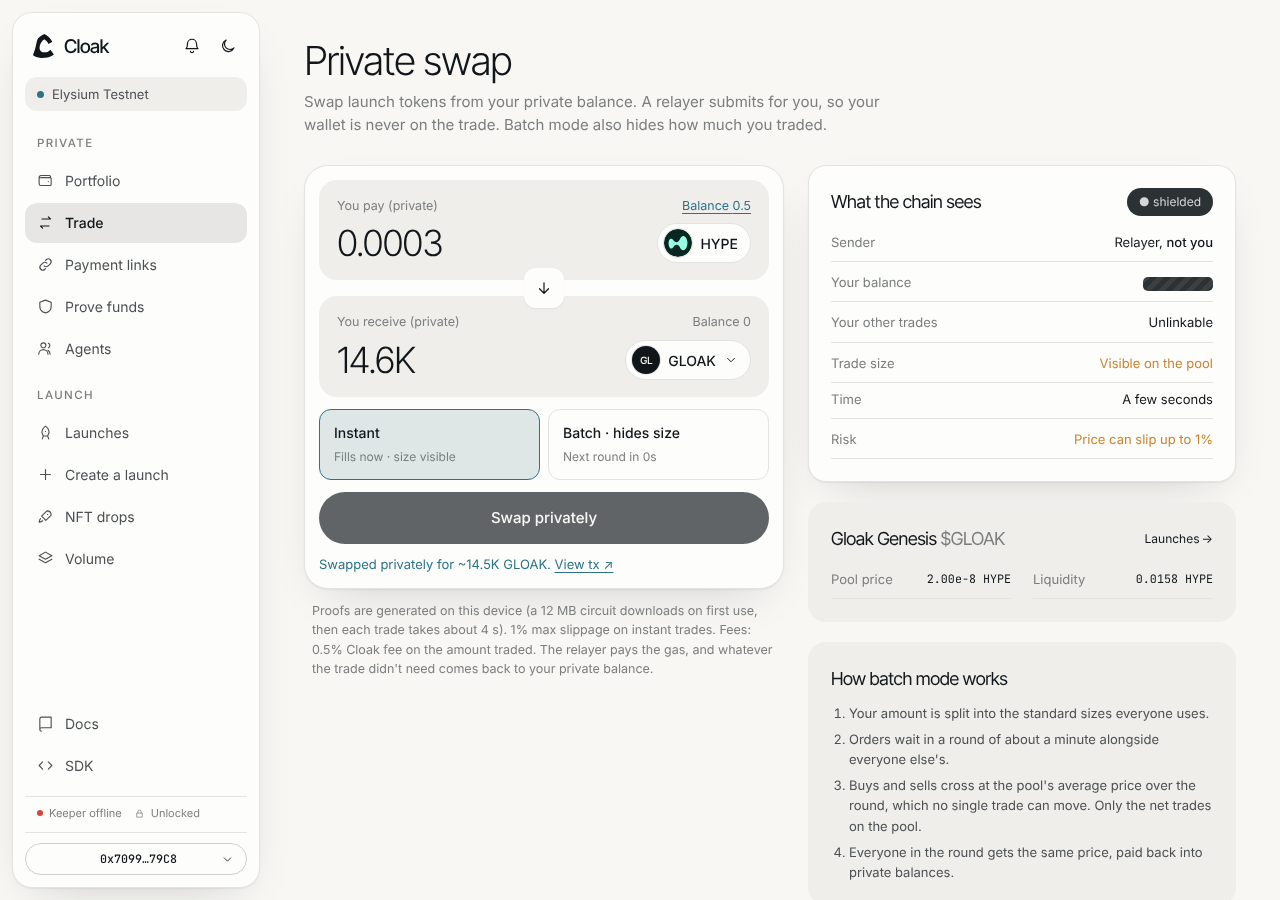
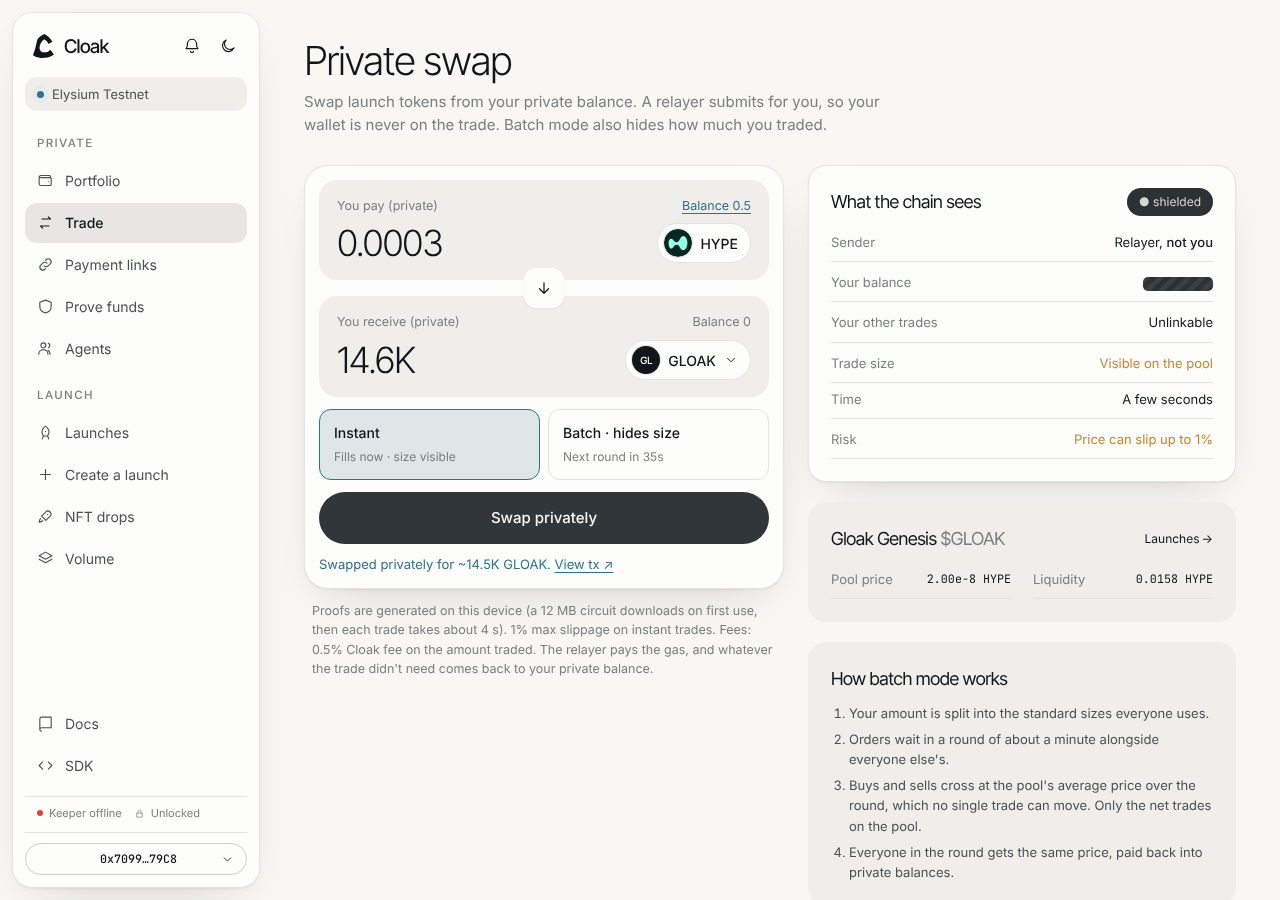
Keeper and SDK: reads to the head survive a lagging RPC node; /leaves ETag stays put; live awake.why
From Cloak v1's keeper notes, checked and measured against v2:
- head.ts: read logs to the head, and only when a node of the load-balanced RPC refuses the range, again 3 blocks back
  (4 of 300 failed to the head, 0 of 300 three back, on Nov 10). A fallback, not a fixed lag, which would hide the
  newest blocks on chains that make blocks only with transactions. Used by the batch-round reader, the leaf tree, the
  memo reader and the one-shot reads, which now walk in pieces only when the RPC caps the range. 4 unit tests.
- /leaves: the ETag names the leaves (address, count, last leaf), not the moving block, so repeat requests get a 304.
- /health: awake.why is computed live.
- docs/OPTIMIZATION.md R1 to R4, with the measurements (1.3 MB an hour idle, 370 KB per start).

Changed region(s): [[0.25, 0.5289, 0.625, 0.6222]]

diff --git a/packages/sdk/src/head.ts b/packages/sdk/src/head.ts
@@ -1,0 +1,59 @@
+/**
+ * Reading logs up to the head on a load-balanced RPC. Elysium's public RPC is several nodes behind one address, a block
+ * or two apart, so eth_getLogs up to the head one node just reported can land on a node that hasn't reached it and is
+ * refused ("invalid block range params", which viem shows as "Missing or invalid parameters"): 4 of 300 tries on
+ * Nov 10. Three blocks back failed 0 times in 300.
+ *
+ * So a read goes up to the head first, and only when a node refuses the range, once more up to HEAD_LAG blocks back.
+ * Not a fixed lag: on a chain that makes blocks only with transactions (a local node, a quiet L2) a fixed lag would hide
+ * the newest blocks until more arrive. Elysium makes 5 to 7 blocks a second, so the fallback costs about half a second.
+ */
+export const HEAD_LAG = 3n;
+
+const BEHIND = /invalid block range|block range|missing or invalid parameters|header not found|unknown block|after last accepted block|beyond current head/i;
+
+/** A node behind the head refused a block range. */
+export function isBehindHead(e: unknown): boolean {
+  const x = e as { shortMessage?: string; message?: string; details?: string } | undefined;
+  return BEHIND.test(`${x?.shortMessage ?? ""} ${x?.details ?? ""} ${x?.message ?? ""}`);
+}
+
+/**
+ * Runs `read` up to the head; if a lagging node refuses the range, runs it again up to HEAD_LAG blocks back. Returns
+ * the block it read up to (a cursor's next block is that plus one) and what `read` returned.
+ */
+export async function readToHead<T>(client: { getBlockNumber(a?: { cacheTime?: number }): Promise<bigint> }, read: (to: bigint) => Promise<T>): Promise<{ to: bigint; value: T }> {
+  const head = await client.getBlockNumber({ cacheTime: 0 });
+  try {
+    return { to: head, value: await read(head) };
+  } catch (e) {
+    if (!isBehindHead(e) || head < HEAD_LAG) throw e;
+    const to = head - HEAD_LAG;
+    return { to, value: await read(to) };
+  }
+}
+
+/**
+ * Logs from `from` to the head: in one call (readToHead), else in `step`-block pieces up to HEAD_LAG blocks back, for
+ * RPCs that cap ranges. `quiet` skips a piece that fails; `firstOnly` stops at the first piece with any log.
+ */
+export async function logsToHead<T>(
+  client: { getBlockNumber(a?: { cacheTime?: number }): Promise<bigint> },
+  from: bigint,
+  get: (from: bigint, to: bigint) => Promise<T[]>,
+  o: { step: bigint; quiet?: boolean; firstOnly?: boolean },
+): Promise<T[]> {
+  try {
+    return (await readToHead(client, (to) => get(from, to))).value;
+  } catch {
+    const head = await client.getBlockNumber({ cacheTime: 0 });
+    const last = head > HEAD_LAG ? head - HEAD_LAG : head;
+    const out: T[] = [];
+    for (let a = from; a <= last; a += o.step) {
+      const b = a + o.step - 1n < last ? a + o.step - 1n : last;
+      out.push(...(o.quiet ? await get(a, b).catch(() => [] as T[]) : await get(a, b)));
+      if (o.firstOnly && out.length) break;
+    }
+    return out;
+  }
+}

diff --git a/packages/sdk/src/drops.ts b/packages/sdk/src/drops.ts
@@ -10,6 +10,7 @@
  * The GTD and WL lists live on chain only as Merkle roots. The lists themselves are published once, in the factory's
  * DropDetails event, so anyone can rebuild a proof; a list that doesn't match the root proves nothing.
  */
+import { logsToHead } from "./head.js";
 import { encodeAbiParameters, getAddress, isAddress, keccak256, toHex, type Address, type Hex, type PublicClient } from "viem";
 import { cloakDropAbi, cloakDropFactoryAbi, cloakEscrowDropAbi, cloakEscrowDropFactoryAbi } from "./abis.js";
 import { commitmentOf, type Wallet } from "./cloak.js";
@@ -516,14 +517,7 @@ export class CloakDrops {
     const from = opts.fromBlock ?? (await this.deployBlock(collection, latest));
     const seen = new Set<bigint>();
     const get = (a: bigint, b: bigint) => this.publicClient.getLogs({ address: collection, event: ev, args: { to: owner }, fromBlock: a, toBlock: b });
-    try {
-      for (const l of await get(from, latest)) if (l.args.tokenId !== undefined) seen.add(l.args.tokenId);
-    } catch {
-      for (let a = from; a <= latest; a += 100_000n) {
-        const b = a + 99_999n > latest ? latest : a + 99_999n;
-        for (const l of await get(a, b).catch(() => [])) if (l.args.tokenId !== undefined) seen.add(l.args.tokenId);
-      }
-    }
+    for (const l of await logsToHead(this.publicClient, from, get, { step: 100_000n, quiet: true })) if (l.args.tokenId !== undefined) seen.add(l.args.tokenId);
     const ids = [...seen].sort((a, b) => (a < b ? -1 : 1));
     const owners = await this.reads(ids.map((id) => ({ ...c, functionName: "ownerOf", args: [id] }))).catch(() => ids.map(() => null));
     return ids.filter((_, i) => String(owners[i]).toLowerCase() === owner.toLowerCase()).slice(0, max);
@@ -614,17 +608,7 @@ export class CloakDrops {
 
   /** Read logs from `fromBlock` to now in one call, or in 100k-block pieces where the RPC limits ranges. */
   private async chunked<T>(get: (from: bigint, to: bigint) => Promise<T[]>, firstOnly = false): Promise<T[]> {
-    const latest = await this.publicClient.getBlockNumber({ cacheTime: 0 });
-    try {
-      return await get(this.fromBlock, latest);
-    } catch {
-      const out: T[] = [];
-      for (let from = this.fromBlock; from <= latest; from += 100_000n) {
-        out.push(...(await get(from, from + 99_999n > latest ? latest : from + 99_999n)));
-        if (firstOnly && out.length) break;
-      }
-      return out;
-    }
+    return logsToHead(this.publicClient, this.fromBlock, get, { step: 100_000n, firstOnly });
   }
 
   async committedLogs(drop: Address) {

diff --git a/packages/sdk/src/cloak.ts b/packages/sdk/src/cloak.ts
@@ -12,6 +12,7 @@ import {
   parseEventLogs,
   toHex,
 } from "viem";
+import { logsToHead } from "./head.js";
 import { cloakAuctionAbi, cloakFactoryAbi, cloakFeeLockerAbi, cloakPairAbi, cloakTokenAbi, cloakV4HookAbi } from "./abis.js";
 
 /** `lpLockUntil` for "locked forever, the creator earns the pool's trading fees". */
@@ -510,16 +511,9 @@ export class Cloak {
     const launches = await this.listLaunches();
     if (!launches.length) return [];
     const me = owner.toLowerCase();
-    const latest = await this.publicClient.getBlockNumber({ cacheTime: 0 });
     const get = (from: bigint, to: bigint) =>
       this.publicClient.getContractEvents({ address: launches.map((l) => l.auction), abi: cloakAuctionAbi, eventName: "Committed", args: { bidder: owner }, strict: true, fromBlock: from, toBlock: to });
-    let logs: Awaited<ReturnType<typeof get>>;
-    try {
-      logs = await get(fromBlock, latest);
-    } catch {
-      logs = [];
-      for (let from = fromBlock; from <= latest; from += 10_000n) logs.push(...(await get(from, from + 9_999n > latest ? latest : from + 9_999n)));
-    }
+    const logs = await logsToHead(this.publicClient, fromBlock, get, { step: 10_000n });
     const bidIds = new Map<string, bigint[]>();
     for (const l of logs) {
       const k = l.address.toLowerCase();
@@ -607,7 +601,6 @@ export class Cloak {
   // ───────────── keeper side ─────────────
 
   async committedLogs(auction: Address, fromBlock = 0n) {
-    const latest = await this.publicClient.getBlockNumber({ cacheTime: 0 });
     const get = (from: bigint, to: bigint) =>
       this.publicClient.getContractEvents({
         address: auction,
@@ -617,18 +610,8 @@ export class Cloak {
         fromBlock: from,
         toBlock: to,
       });
-    try {
-      return await get(fromBlock, latest);
-    } catch {
-      // RPCs that cap eth_getLogs ranges: walk in chunks
-      const out: Awaited<ReturnType<typeof get>> = [];
-      const step = 10_000n;
-      for (let from = fromBlock; from <= latest; from += step) {
-        const to = from + step - 1n > latest ? latest : from + step - 1n;
-        out.push(...(await get(from, to)));
-      }
-      return out;
-    }
+    // one call to the head, else pieces where the RPC caps ranges (head.ts)
+    return logsToHead(this.publicClient, fromBlock, get, { step: 10_000n });
   }
 
   /**

diff --git a/packages/sdk/src/core/gloam.ts b/packages/sdk/src/core/gloam.ts
@@ -17,6 +17,7 @@
  * Every transaction goes through the injected submitter: a relayer by default, so the user's address never appears
  * next to a private action.
  */
+import { readToHead } from "../head.js";
 import { p256 } from "@noble/curves/p256";
 import { hkdf } from "@noble/hashes/hkdf";
 import { sha256 } from "@noble/hashes/sha256";
@@ -361,9 +362,8 @@ export class GloamCore implements PrivateCore {
     onStatus("Reading the vault");
     // eslint-disable-next-line @typescript-eslint/no-explicit-any
     await this.tree.update(pub as any);
-    const head = await pub.getBlockNumber();
     onStatus("Reading sealed notes");
-    const logs = await this.memoLogs(this.memoFrom, head);
+    const { to: head, value: logs } = await readToHead(pub, (to) => this.memoLogs(this.memoFrom, to));
     for (const log of logs) {
       const key = `${log.transactionHash}:${log.logIndex}`;
       if (this.seenMemo.has(key)) continue;
@@ -371,7 +371,7 @@ export class GloamCore implements PrivateCore {
       const text = new TextDecoder().decode(hexToBytes(log.args.memo as Hex));
       for (const t of text.split("\n")) await this.tryTicket(t);
     }
-    this.memoFrom = head + 1n;
+    if (head + 1n > this.memoFrom) this.memoFrom = head + 1n; // only forward (a lagging head never re-reads or skips)
     // Keep what is in the tree and unspent.
     const stillWaiting: typeof this.candidates = [];
     for (const c of this.candidates) {

diff --git a/packages/sdk/src/core/gloamTree.ts b/packages/sdk/src/core/gloamTree.ts
@@ -12,6 +12,7 @@
  * The state can be exported (commitments only, all public) and imported, so a reload reads only new blocks, and
  * seeded from the keeper's public list (`GET /leaves`), checked against a root the vault knows.
  */
+import { readToHead } from "../head.js";
 import * as gloam from "@gloamtrade/sdk";
 import type { Address, Hex, PublicClient } from "viem";
 
@@ -113,7 +114,12 @@ export class GloamTree implements GloamTreeView {
   }
 
   private async read(client: PublicClient) {
-    const latest = await client.getBlockNumber({ cacheTime: 0 }); // a cached head can miss a note made seconds before it's spent
+    // up to a fresh head (a cached one can miss a note made seconds before it's spent), a few blocks back if a lagging
+    // node of the RPC refuses the range (head.ts)
+    await readToHead(client, (latest) => this.readTo(client, latest));
+  }
+
+  private async readTo(client: PublicClient, latest: bigint) {
     // no new block: nothing to read, but the leaf count is still checked (a seeded list missing a leaf shows here)
     const ins: Insert[] = [];
     for (let a = this.next; a <= latest; a += this.chunk) {

diff --git a/packages/sdk/src/index.ts b/packages/sdk/src/index.ts
@@ -9,3 +9,4 @@ export * from "./core/index.js";
 export * from "./spots.js";
 export * from "./names.js";
 export * from "./bridge/relay.js";
+export * from "./head.js";

diff --git a/docs/OPTIMIZATION.md b/docs/OPTIMIZATION.md
@@ -66,6 +66,34 @@ v1 measured that Render's bandwidth is mostly **the keeper's own RPC reads**, no
 ### Hosting files
 - `render.yaml` is now the v2 keeper's Blueprint (free plan, testnet addresses, `TRUSTED_PROXY_HOPS=1`, CORS for gloak.boblabs.tech, the build filter). The site goes on Vercel, whose `vercel.json` already skips builds that don't touch the site (v1's V2).
 
+### R1. Reads up to the head on a load-balanced RPC (Nov 10, from Cloak v1's keeper notes)
+- **The bug:** Elysium's public RPC is several nodes behind one address, a block or two apart. `eth_getLogs` up to the head one node just reported can land on a node that hasn't reached it and is refused ("invalid block range params", shown by viem as "Missing or invalid parameters").
+- **Measured on the testnet RPC, Nov 10, 300 tries each:** logs up to the reported head failed 4 times (1.3%); up to 3 blocks back, 0 times. Reading the vault's state at the head block failed 0 times, and the head never went backwards in this sample (v1 saw it twice in 300).
+- **Fixed with a fallback, not a fixed lag** (`packages/sdk/src/head.ts`): read to the head; only if a node refuses the range, read again to 3 blocks back. v1's note proposed always reading to head minus 3. That breaks on chains that make blocks only with transactions: the newest 3 blocks stay hidden until more transactions arrive. It broke parts 16, 18 and 19 on the local fork, where a fresh deposit stayed invisible. Elysium itself makes a block every 0.15 to 0.2 s, each with at least 2 system transactions (checked on testnet and mainnet), so there the fallback costs about half a second, and only when it's needed.
+- **Where:** the keeper's batch-round reader (`settleRounds`, whose cursor now moves only past what was read), the leaf tree (keeper `/leaves` and every app's sync), the payment-memo reader (its cursor only moves forward), and the one-shot reads (reveals, claims, the bell, drops, NFTs). Those used to fall into a piece-by-piece walk on any error, about 270 calls for the bell's read from block 0. Now they walk in pieces only when the RPC really caps the range.
+- **Tests:** 4 unit tests (`packages/sdk/test/head.test.mjs`), and parts 7, 8, 16, 18 and 19 pass.
+
+### R2. `/leaves` ETag that stays put
+- **Before:** the ETag hashed the whole JSON, including `block`, which moves on every refresh. So a browser's `If-None-Match` almost never matched.
+- **Now:** it hashes each vault's address, leaf count and last leaf. The list is append-only and checked against the vault's count, so that names the list exactly. Measured locally: the same ETag across refreshes, and a repeat request gets a 304 with no body.
+- **Not done: v1's `x-leaves-block` header.** Not needed. A browser holding a 304'd copy has an older `block`, and that is still right: no leaf came after it, and the app reads the chain from there. A header would also need CORS exposure for nothing.
+
+### R3. Awake through time-only deadlines (H1, checked)
+- **A launch in bidding counts:** the keeper records it in its pending list before waiting for bidding to close, so `awake.why` shows "launches" through bidding, the drand round, the reveal window and settling. Drops count in their GTD and bidding phases too. A failed launch still ends as `settled`, so it can't hold the keeper awake forever.
+- **The claim delay doesn't apply any more:** the keeper no longer pushes claims (`PUSH_CLAIMS` off), so a settled launch is done once the fee is collected.
+- **Batch rounds:** count from the first order the loop reads.
+- **Fixed:** `/health` showed `awake.why` as of the last self-ping, up to 10 minutes old (empty for the first 10 minutes). It's now computed on every `/health`.
+- **Bob to check on Render** (it can't be seen from here): during a launch's bidding, Render's logs should show no `==> Running 'node services/keeper/index.mjs'` restart lines. If they do, Render isn't counting the self-request as incoming traffic, and we fall back to cron-job.org pinging `/health` every 12 minutes, as v1 is doing.
+
+### R4. What v2's keeper sends (measured Nov 10)
+- **How:** run locally against testnet with a throwaway key, with `fetch` wrapped to add up request bodies plus about 350 bytes of headers each. It counts outbound only, which is what Render bills per v1's note.
+- **Startup:** about 370 KB in the first 30 s (140 requests: every launch, the 16 shared drops, both leaf lists).
+- **Then, with nothing pending:** about **1.3 MB an hour**. That's about 0.95 GB a month even if it never slept, against 5 GB. With nothing pending, Render lets it sleep anyway.
+- **Not done: raising `IDLE_MS`** (v1's option). At 1.3 MB an hour it isn't needed, and a longer idle wait would delay the first reveal or settle after bidding closes.
+- **Render workspace:** the plan already puts v2's keeper on its own Render account (Stage 2), so it doesn't share v1's 5 GB.
+- **Open, for Bob:** v2's keeper also runs the NFT drop factories shared with v1. If v1's keeper runs them too, both read and race on the same drops. One of them should own drops.
+- **v1's on-demand snapshot advice** (build a public JSON only when asked): v2 has no keeper-built JSON besides `/leaves`, which already works that way (read only when asked, at most every 10 s).
+
 ## What it costs now (estimates, per open tab)
 
 | | Before | Now |
